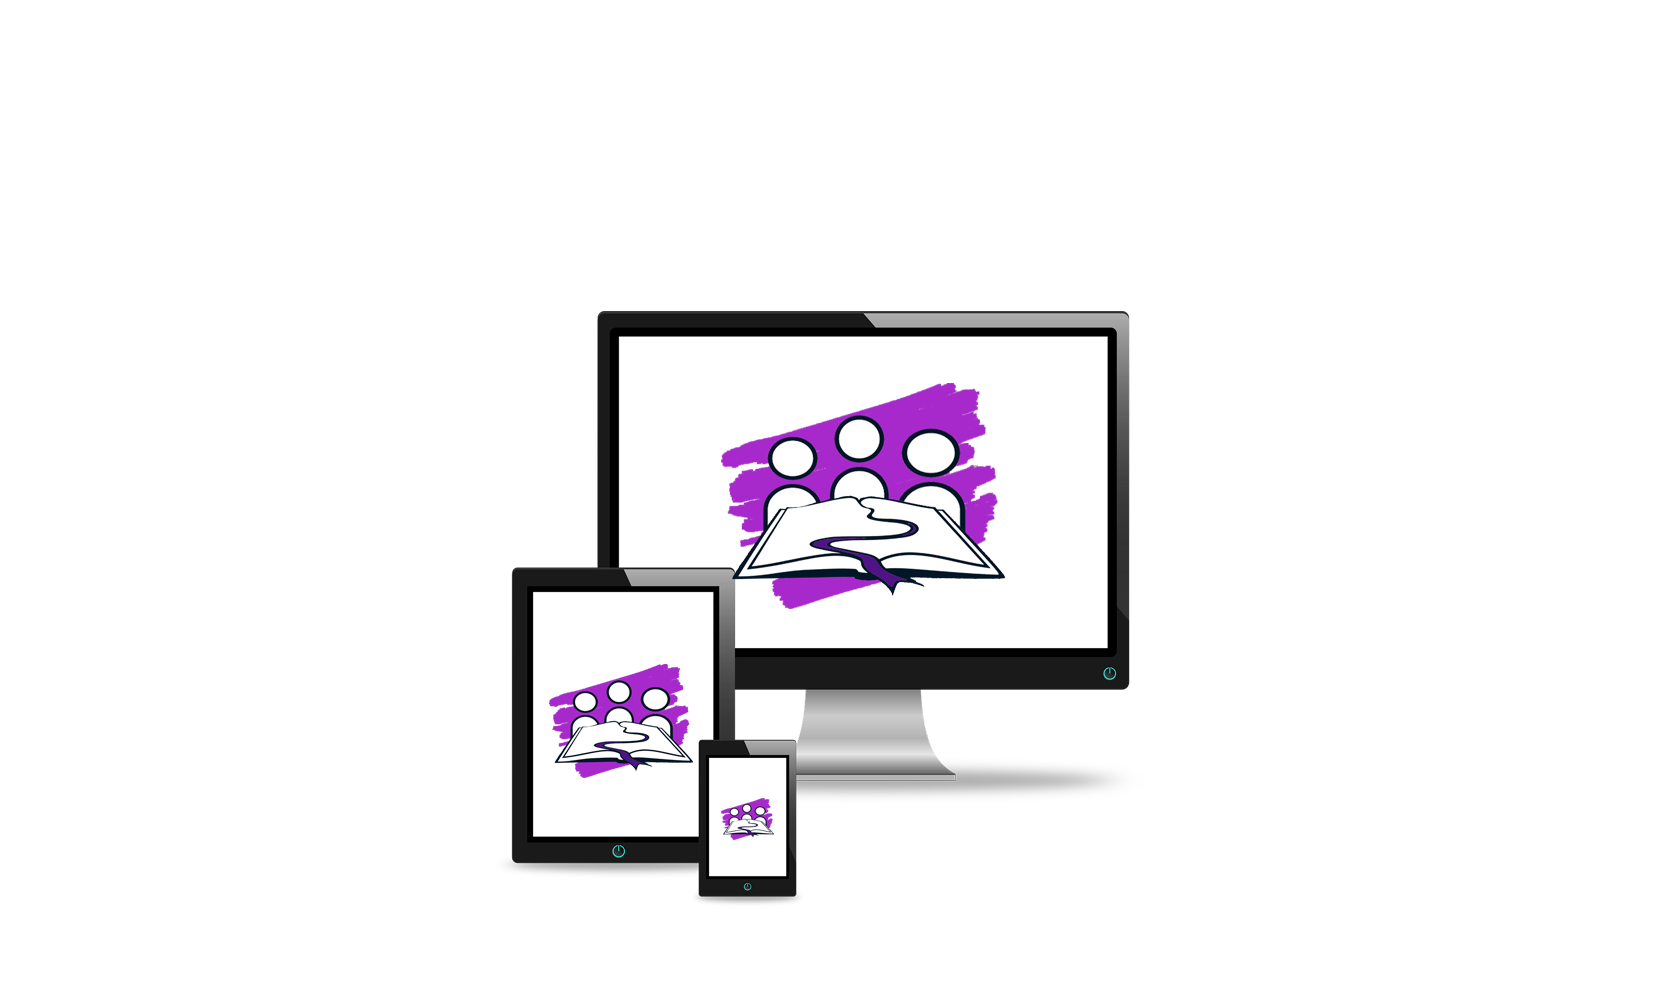
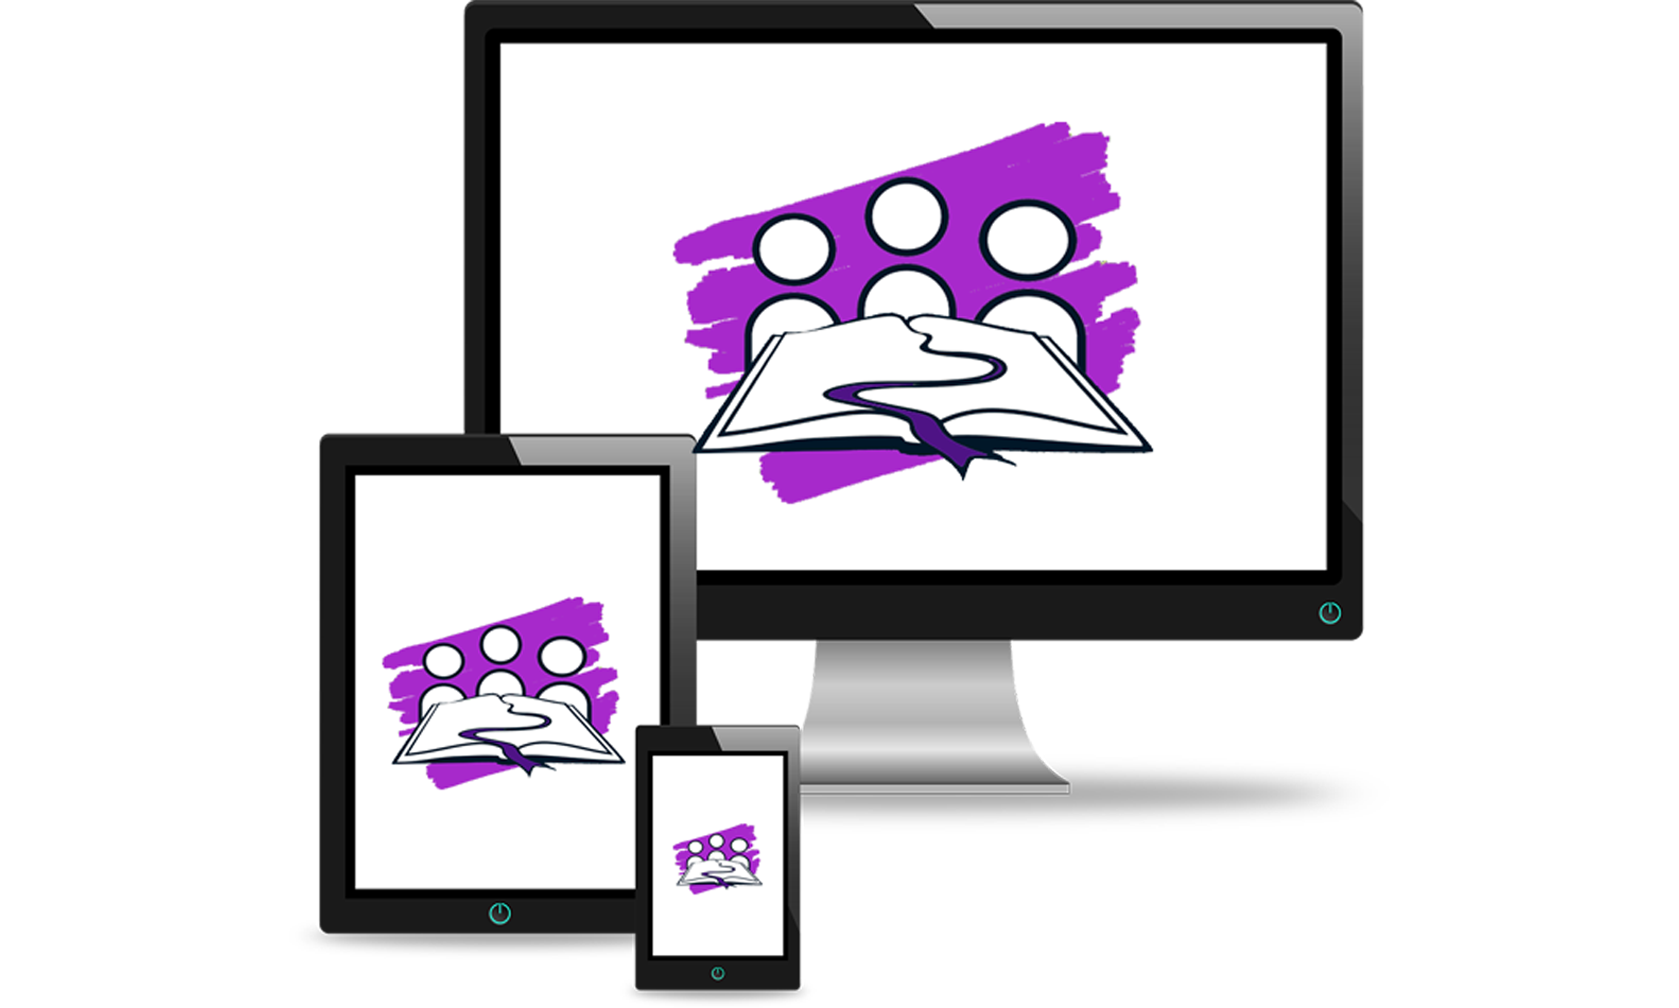
index responsive corrections

Changed region(s): [[0.1858, 0.0, 0.8362, 1.0]]

diff --git a/css/index.css b/css/index.css
@@ -68,7 +68,8 @@
 }
 /* Imagen */
 .inicio-imagen {
-  width: 1200px;
+  width: 750px;
+  margin-top: 8.5rem;
 }
 /* Texto inicio-copyrigth */
 .inicio-copyrigth {
@@ -116,8 +117,7 @@
 
 @media (min-width: 320px) and (max-width: 1024px) {
   #inicio-container {
-    /* min-height: 540px !important; */
-    width: 100%;
+    min-height: 540px !important;
   }
   /* Navbar imagen y nombre proyecto */
   .nav-image-project {
@@ -151,10 +151,11 @@
   .inicio-image {
     width: 100%;
     margin-top: 0;
-    height: 200px;
+    height: 330px;
   }
   .inicio-imagen {
-    width: 300px;
+    width: 350px;
+    margin-top: 70px;
   }
   .inicio-copyrigth {
     width: 150px;
@@ -165,13 +166,11 @@
   /* Container redes */
   .inicio-redes-container {
     width: 100%;
-    height: 150px;
+    height: 190px;
     justify-content: space-evenly;
   }
   .inicio-subtitulos {
-    display: flex;
     height: 40%;
-    width: 100%;
   }
   .inicio-subtitle-3 {
     font-size: 22px !important;
@@ -180,10 +179,8 @@
     font-size: 12px !important;
   }
   .inicio-redes {
-    width: 100%;
     height: 10%;
     display: flex;
-    justify-content: space-around;
     align-items: center;
   }
   .inicio-educart-redes {
@@ -194,11 +191,8 @@
   }
   .inicio-redes-title-logo {
     display: flex;
-    flex-direction: row;
     align-items: center;
     justify-content: center;
-
-    width: 40%;
   }
   .inicio-redes-social {
     width: 60%;
@@ -212,7 +206,7 @@
 }
 
 /* PC  */
-@media (min-width: 1024px) and (max-width: 1280px) {
+@media (min-width: 1024px) and (max-width: 1279px) {
   #inicio-container {
     min-height: 400px !important;
   }
@@ -243,8 +237,9 @@
     margin-top: 0;
   }
   .inicio-imagen {
-    width: 800px;
+    width: 500px;
     position: absolute;
+    margin-top: 40px;
   }
   .inicio-copyrigth {
     width: 150px;
@@ -263,23 +258,180 @@
     justify-content: flex-end;
   }
   .inicio-subtitulos {
-    display: flex;
     height: 10%;
-    width: 100%;
   }
   .inicio-subtitle-3 {
     font-size: 22px !important;
+  }
+  .inicio-subtitle-5 {
+    font-size: 12px !important;
+  }
+  .inicio-redes {
+    height: 33%;
+    display: flex;
+    align-items: center;
+  }
+  .inicio-educart-redes {
+    font-size: 15px !important;
+  }
+  .inicio-logo {
+    width: 60px;
+  }
+  .inicio-redes-title-logo {
+    display: flex;
+    flex-direction: row;
+    align-items: center;
+    justify-content: center;
+
+    width: 40%;
+  }
+  .inicio-redes-social {
+    width: 60%;
+    display: flex;
+    justify-content: space-evenly;
+    align-items: center;
+  }
+  .inicio-redes-social a i {
+    width: 32px;
+  }
+}
+@media (min-width:1280px) and (max-width:1659px) {
+  #inicio-container {
+    height: 750px;
+  }
+  /* Container title */
+  .inicio-title-container {
+    height: 580px;
+  }
+  .inicio-title {
+    width: 470px;
+    margin-left: 10px;
+  }
+  /* Fin Container title */
+
+  /* Container logo y copyright */
+  .inicio-image {
+    height: 580px;
+    width: 100%;
+    margin-top: 0;
+  }
+  .inicio-imagen {
+    width: 600px;
+    position: absolute;
+    margin-top: 40px;
+  }
+  .inicio-copyrigth {
+    width: 150px;
+    margin-top: 26.5rem;
+    margin-right: 220px;
+    font-size: 13px !important;
+    position: absolute;
+  }
+  /* Fin container logo y copy */
+
+  /* Container redes */
+  .inicio-redes-container {
+    width: 100%;
+    height: 580px;
+  }
+  .inicio-subtitulos {
+    height: 10%;
+  }
+  .inicio-subtitle-3 {
+    font-size: 34px !important;
+  }
+  .inicio-subtitle-5 {
+    font-size: 12px !important;
+  }
+  .inicio-redes {
+    height: 33%;
+  }
+  .inicio-educart-redes {
+    font-size: 18px !important;
+  }
+  .inicio-logo {
+    width: 60px;
+  }
+  .inicio-redes-title-logo {
+    align-items: center;
+    justify-content: center;
+  }
+  .inicio-redes-social {
+    width: 60%;
+    display: flex;
+    justify-content: space-evenly;
+    align-items: center;
+  }
+  .inicio-redes-social a i {
+    width: 32px;
+  }
+}
+
+
+
+/* Media query pc pili */
+@media (min-width:1660px){
+  #inicio-container {
+    height: 850px;
+  }
+  /* Container title */
+  .inicio-title-container {
+    height: 580px;
+    width: 33.3%;
+  }
+  .inicio-title {
+    font-size: 100px !important;
+    width: 620px;
+    margin-left: 30px;
+  }
+  /* Fin Container title */
+
+  /* Container logo y copyright */
+  .inicio-image {
+    height: 580px;
+    width: 33.3%;
+    margin-top: 100px;
+
+  }
+  .inicio-imagen {
+    width: 800px;
+    position: absolute;
+    margin-top: 40px;
+    margin-right: 150px;
+  }
+  .inicio-copyrigth {
+    width: 150px;
+    margin-top: 33rem;
+    margin-right: 300px;
+    font-size: 14px !important;
+    position: absolute;
+  }
+  /* Fin container logo y copy */
+
+  /* Container redes */
+  .inicio-redes-container {
+    width: 33.3%;
+    height: 580px;
+    justify-content: flex-end;
+  }
+  .inicio-subtitulos {
+    display: flex;
+    height: 14%;
+    width: 100%;
+  }
+  .inicio-subtitle-3 {
+    font-size: 40px !important;
     font-family: "Roboto", sans-serif;
     color: white;
   }
   .inicio-subtitle-5 {
-    font-size: 12px !important;
+    font-size: 14.5px !important;
     font-family: "Roboto", sans-serif;
     color: white;
   }
   .inicio-redes {
     width: 100%;
-    height: 33%;
+    height: 15%;
     display: flex;
     justify-content: space-around;
     align-items: center;

diff --git a/css/foro.css b/css/foro.css
@@ -266,6 +266,61 @@ i {
   justify-content: center;
   align-items: center;
 }
+.lds-ellipsis {
+  display: inline-block;
+  position: relative;
+  width: 80px;
+  height: 80px;
+}
+.lds-ellipsis div {
+  position: absolute;
+  top: 33px;
+  width: 13px;
+  height: 13px;
+  border-radius: 50%;
+  background: #c985c8;
+  animation-timing-function: cubic-bezier(0, 1, 1, 0);
+}
+.lds-ellipsis div:nth-child(1) {
+  left: 8px;
+  animation: lds-ellipsis1 0.6s infinite;
+}
+.lds-ellipsis div:nth-child(2) {
+  left: 8px;
+  animation: lds-ellipsis2 0.6s infinite;
+}
+.lds-ellipsis div:nth-child(3) {
+  left: 32px;
+  animation: lds-ellipsis2 0.6s infinite;
+}
+.lds-ellipsis div:nth-child(4) {
+  left: 56px;
+  animation: lds-ellipsis3 0.6s infinite;
+}
+@keyframes lds-ellipsis1 {
+  0% {
+    transform: scale(0);
+  }
+  100% {
+    transform: scale(1);
+  }
+}
+@keyframes lds-ellipsis3 {
+  0% {
+    transform: scale(1);
+  }
+  100% {
+    transform: scale(0);
+  }
+}
+@keyframes lds-ellipsis2 {
+  0% {
+    transform: translate(0, 0);
+  }
+  100% {
+    transform: translate(24px, 0);
+  }
+}
 @media (min-width: 300px) and (max-width: 767px) {
   .foro-main {
     width: 95%;

diff --git a/pages/foro.php b/pages/foro.php
@@ -40,6 +40,7 @@
                 <div class="foro-questions-container"></div>
 
         </div>
+        <div class="lds-ellipsis"><div></div><div></div><div></div><div></div></div>
         <?php include_once 'navs/footer.php' ?>
     </div>
     <script src="https://cdn.jsdelivr.net/npm/bootstrap@5.2.0/dist/js/bootstrap.bundle.min.js" crossorigin="anonymous"></script>
